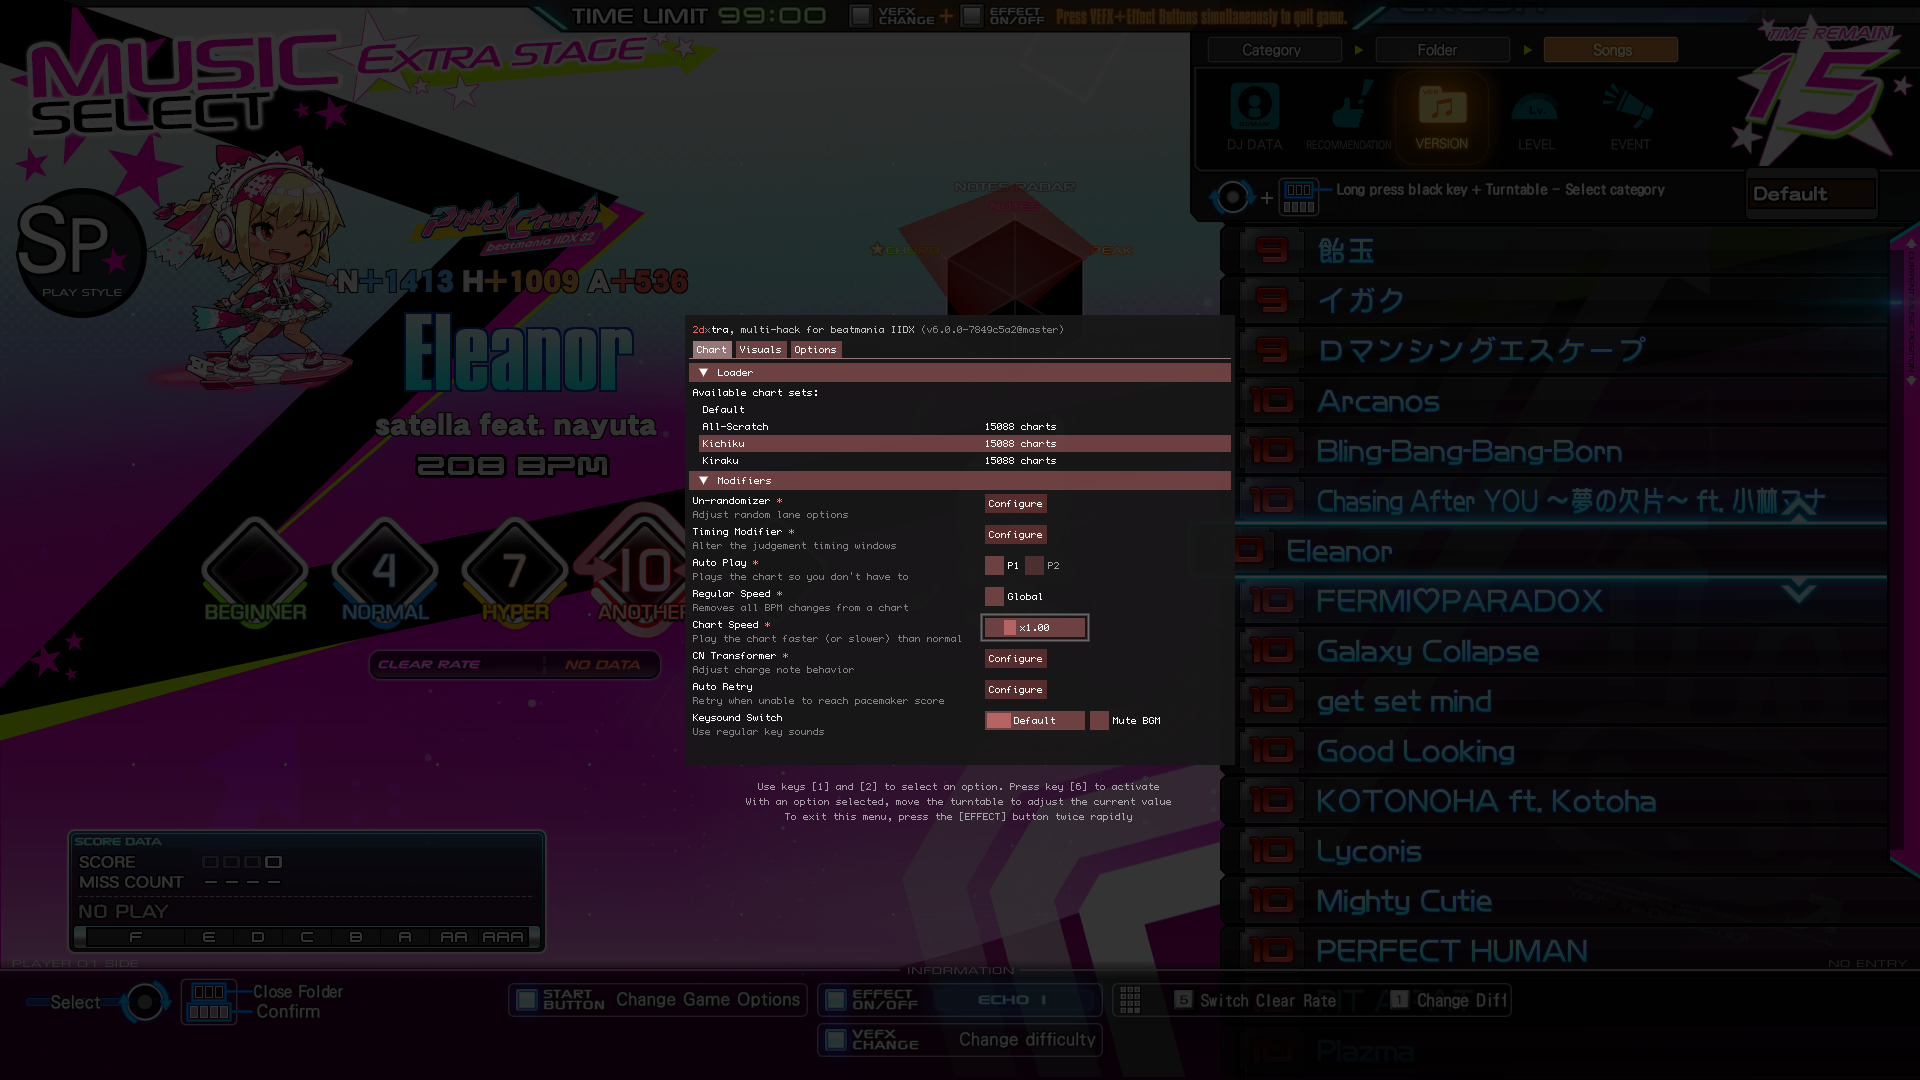
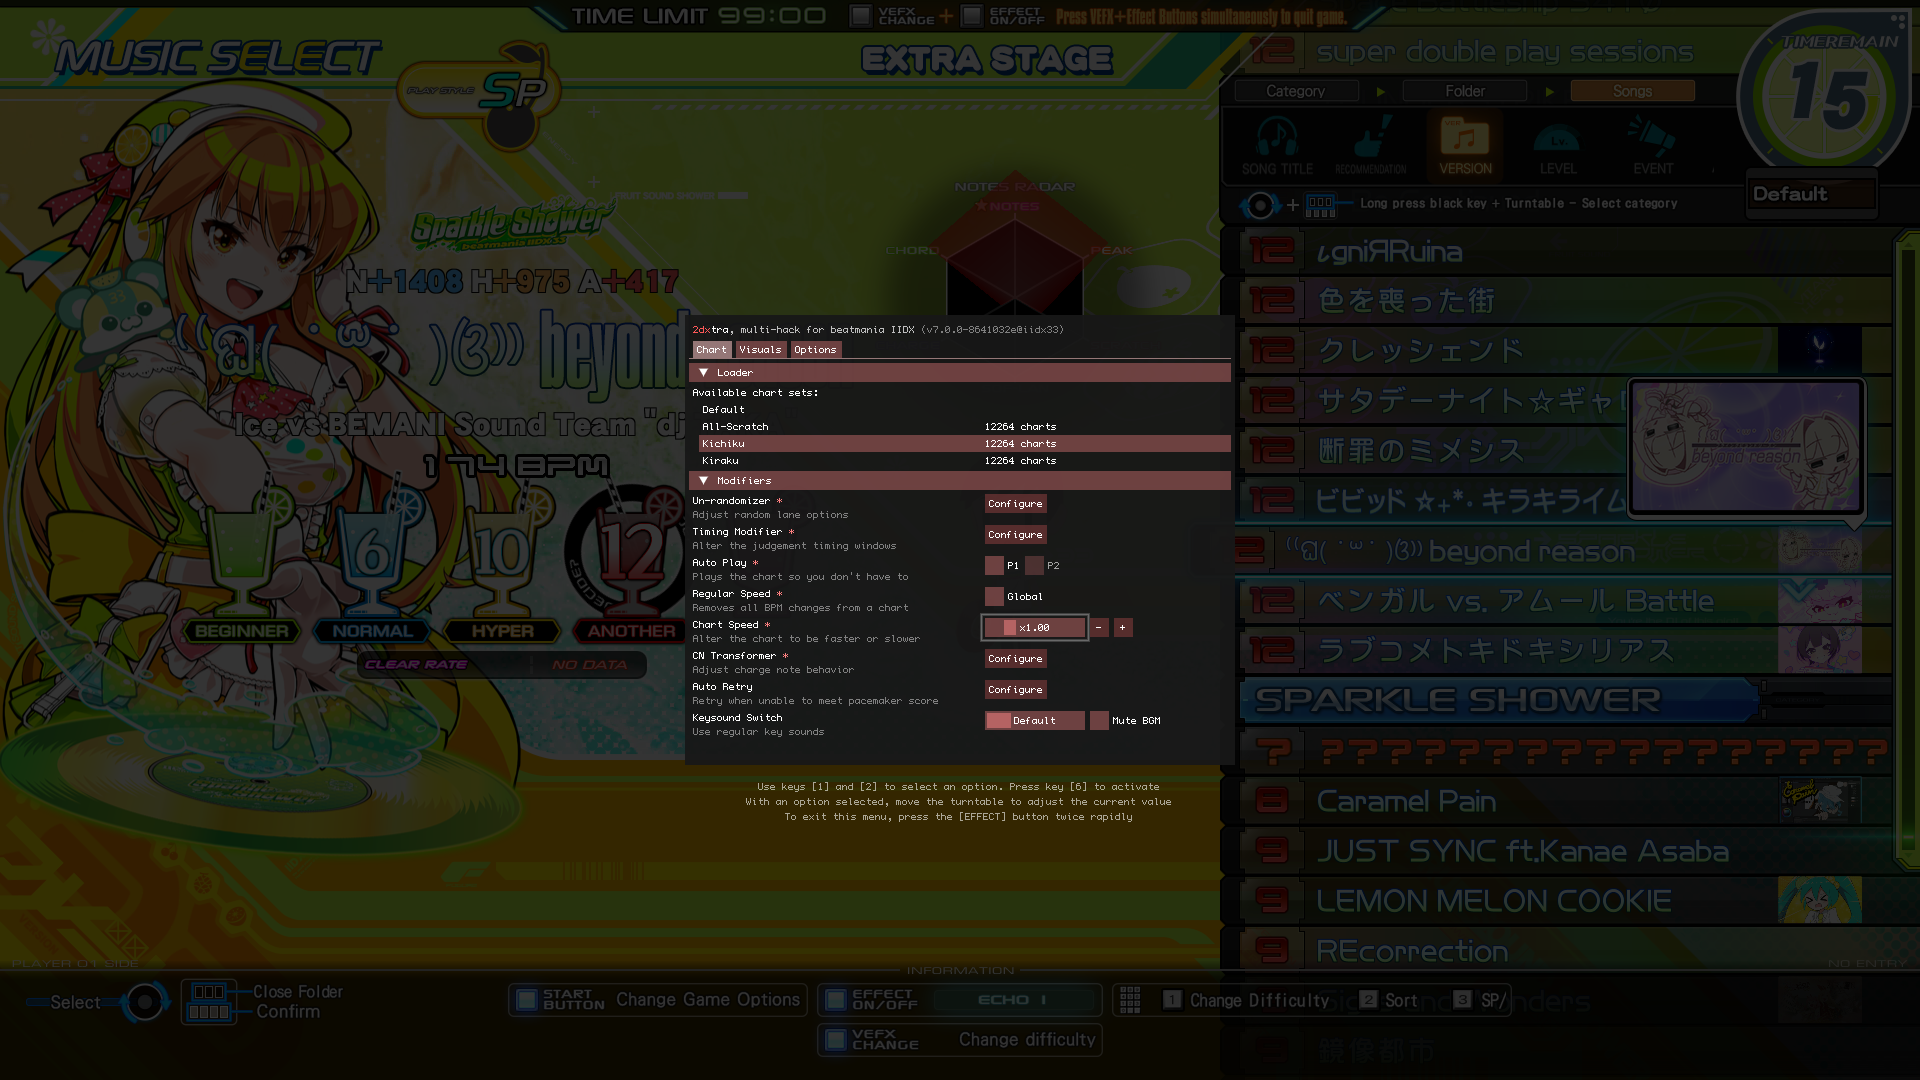
Add support for IIDX 33

diff --git a/src/2dxtra/offsets/2026081900-010.cc b/src/2dxtra/offsets/2026081900-010.cc
@@ -1,0 +1,92 @@
+versions.push_back({
+    .GAME_VERSION             = "2026081900-010",
+
+    .DLL_CODE_SIZE            = 0x0c8f800,
+    .DLL_ENTRYPOINT           = 0x0b1cccc,
+    .DLL_IMAGE_SIZE           = 0xbb95000,
+
+    .SOFT_REV_PATCH           = base + 0x094e6f9, // call replaced by `mov byte ptr [rdi+5], rev`
+    .INPUT_POLL_FN            = base + 0x0a7a2f0, // IO::InputManagerIIDX vftable slot 3
+    .ARENA_PHASE_PATCH        = base + 0x059e9e0, // callee of the arena phase clamp
+    .MUSIC_SELECT_CTOR        = base + 0x0603ee0, // builds the mlist_sel/thumbnail textures
+    .DAN_SELECT_CTOR          = base + 0x08cd420, // CDanSelectScene vftable slot 13 (scene enter)
+    .SCENE_DTOR               = base + 0x096a220, // prologue pattern [pattern]
+    .STAGE_RESULT_FN          = base + 0x092c2d0, // CStageResultScene vftable slot 13 (scene enter)
+    .RESET_STATE_FN           = base + 0x05abed0, // clears one player's game data block
+    .MSELECT_GENRE_C          = base + 0x0602d20, // renders the hovered entry's genre and title
+    .MSELECT_GENRE_B          = base + 0x0602db1, // cmp music_entry::texture_genre, 0 (7 bytes, patched to jmp)
+    .MSELECT_GENRE_A          = base + 0x0602e8d, // call to the wide genre text renderer
+    .MSELECT_GENRE_TEXT_FN    = base + 0x05ecf80, // callee of MSELECT_GENRE_A
+    .INIT_TEXT_RENDER_FN      = base + 0x05ebff0, // debug text renderer used for the boot progress line
+    .BOOT_MODEL_TEXT_CALL     = base + 0x093f46b, // call that draws the boot model string
+    .TITLE_MODEL_TEXT_CALL    = base + 0x09369dc, // call that draws the title-screen model string
+    .TEXT_INIT_FN             = base + 0x0344880, // initialises the text property block (first callee)
+    .TEXT_RENDER_FN           = base + 0x05ec370, // public wrapper around the ASCII text draw routine
+    .RESULT_ARTIST_FN         = base + 0x091c3e9, // call that draws the result artist text
+    .LOAD_CHART_FN_B          = base + 0x0827c60, // reads one .1 chart into the scratch buffer
+    .LOAD_CHART_FN_A          = base + 0x0827d80, // sole caller of LOAD_CHART_FN_B
+    .CHART_ANALYZE_FN         = base + 0x0826af0, // boot-time chart load + analyze pass
+    .CHART_ANALYZE_RESULT     = base + 0x0826d13, // instruction after the chart fread (rax = bytes read, rdi = buffer)
+    .CHART_CALC_RADAR_FN      = base + 0x0827610, // prologue pattern [pattern]
+    .GET_APP_CONFIG           = base + 0x093b9d0, // returns CApplicationConfig
+    .GET_MUSIC_DATA           = base + 0x0951fd0, // returns the music_data.bin blob
+    .LOAD_AUDIO_FN            = base + 0x0a8ffa0, // prologue pattern [pattern]
+    .GET_SOUND_ENTRY_FN       = base + 0x0a8fb40, // prologue pattern [pattern]
+    .XRPC_APPLY_FN            = base + 0x0ab9520, // the game's wrapper around avs2-ea3 xrpc_apply
+    .REG_DISPATCH_FN          = base + 0x09164e0, // builds and fires the music.reg request
+    .REG_PATCH_ADDR           = base + 0x09173d5, // call that actually queues the score save request
+    .SCORE_INVALID_FN         = base + 0x082e510, // shared by the result scene and the score save request
+    .DAN_SAVE_FN              = base + 0x05b4270, // prologue pattern [pattern]
+    .EAAPPLI_SAVE_FN          = base + 0x05b87a0, // prologue pattern [pattern]
+    .MDATA_LOAD_FN            = base + 0x0934260, // CMonitorCheckScene vftable slot 15 (runs after music_data is loaded)
+    .IS_BTN_DOWN_FN_A         = base + 0x081edad, // cmp autoplay flag inside the `button pressed` helper
+    .IS_BTN_DOWN_FN_B         = base + 0x081ee4d, // cmp autoplay flag inside the `button held` helper
+    .AUTO_BEAM_PATCH          = base + 0x0905ebb, // cmp autoplay flag in the lane beam renderer
+    .AUTO_BEAM_FN             = base + 0x0905c60, // lane beam renderer; rcx -> per-player block whose first dword is the player index
+    .CARD_OUT_VFUNC           = base + 0x0d77780, // CCardOutScene vftable slot 0
+    .RENDERER_PATCH           = base + 0x05c6ae2, // call nop'd to freeze rendering while the vtable is swapped
+    .APPLY_RANDOM_FN          = base + 0x08236e0, // prologue pattern [pattern]
+    .DARK_MODE_PATCH          = base + 0x0902658, // `je` over the play field draw, patched to an unconditional jmp
+    .MEASURE_PATCH            = base + 0x0823f29, // branch over the measure bar draw, forced unconditional
+    .BPM_BAR_PATCH            = base + 0x09019ca, // start of the bpm gradient draw, replaced by a jmp past it
+    .BPM_BAR_PATCH_JMP        =        0x00000ba, // relative jump to 0x901a89
+    .PLAY_FIELD_LOAD          = base + 0x081c5c0, // fills the play field note table
+    .RETRY_CHECK_A            = base + 0x090fd78, // call testing the EFFECT button
+    .RETRY_CHECK_B            = base + 0x090fd8a, // call testing the VEFX button
+    .GHOST_TARGET_FN          = base + 0x0906819, // call that renders the '+????' ghost text
+    .GRAPH_TARGET_FN          = base + 0x0a3cf15, // call that renders the 'TARGET:+????' text
+    .GRAPH_CONDITION          = base + 0x0a3cecd, // gate on whether the TARGET text is drawn
+    .FAIL_ANIMATION_FN        = base + 0x091058b, // call that starts the stage failed animation (dl = play it)
+    .FAIL_PLAY_SFX_FN         = base + 0x09105ba, // call that plays the stage failed sound effect (rcx = sound id)
+    .FAIL_DURATION_JMP        = base + 0x090ff30, // `jl` deciding whether the failed animation is still running
+    .WNDPROC_FN               = base + 0x093cea0, // PropClassWindowProc
+    .TIMING_HOOK_FN           = base + 0x0821730, // jump-table dispatcher that installs the judge windows
+    .ATTRACT_SELECT_FN        = base + 0x08a0ed0, // picks the next attract demo chart
+
+    .IS_SEPARATE_SCRATCH_FN   = base + 0x080a880, // whether separate FAST/SLOW for scratch option is enabled
+    .SPRITE_DRAW_FN           = base + 0x034ac50, // named sprite draw helper used for s_fast and s_slow
+    .JUDGE_APPLY_FN           = base + 0x08210b0, // applies a note judgment; prologue pattern [pattern]
+    .JUDGE_DISPLAY_FN         = base + 0x0909f80, // updates judge, combo and FAST/SLOW state; prologue pattern [pattern]
+    .JUDGE_DRAW_FS_KEYS_FN    = base + 0x0909750, // fast/slow renderer sharing the scratch renderer's caller
+    .JUDGE_DRAW_FS_SC_FN      = base + 0x0909a40, // renderer referencing s_fast and s_slow
+    .JUDGE_DISPLAY_INIT_FN    = base + 0x0909d10, // initializes judgment display state and judge_great_yellow sprites
+    .JUDGE_PRESS_RETURN       = base + 0x0821ce1, // return after general timing judgment call; continuation pattern [pattern]
+    .JUDGE_RELEASE_RETURN     = base + 0x0820c8a, // return after CN release timing judgment call; continuation pattern [pattern]
+
+    // offsets: data
+    .GAME_MODEL               = base + 0x1080d40, // the mutable copy of the ea3 model string
+    .GAME_STATE               = base + 0xacd79a0, // state block; p1_active/p2_active at +0x10/+0x14 pin it down
+    .INPUT_MANAGER            = base + 0xb29a2b0, // the InputManagerIIDX singleton (its vftable pointer is written here)
+    .PLAYER_BLOCK             = base + 0x3101488, // base of player 0's game data block
+    .SCORES_P1                = base + 0x312f01c, // player 0 score table (player block + the score updater's displacement)
+    .SCORES_P2                = base + 0x6c3f3bc, // player 1 score table
+    .RIVAL_SCORES_P1          = base + 0x38f73c0, // player 0 rival score table
+    .RIVAL_SCORES_P2          = base + 0x7407760, // player 1 rival score table
+    .MAX_ENTRIES              =        0x00084d0, // music entries per play style in the score tables
+    .D3D9_DEVICE              = base + 0xacd85e0, // IDirect3DDevice9* field assigned after CreateDeviceEx at 0x93c750 (manager +0xe0)
+    .AUTO_PLAY                = base + 0xaa9479c, // autoplay flag inside the play data block
+    .RANDOM_DATA              = base + 0xa7ef570, // object holding the post-random lane order
+    .PLAY_STATE               = base + 0xa7ed450, // per-play score/note counters and the pacemaker target
+    .PLAY_SESSION             = base + 0xaba9a30, // gameplay session block (pacemaker type, personal best, in-game flag)
+    .DEAD_STATE               = base + 0xaba95e0, // per-player alive flags from the failure handler's shared getter
+});

diff --git a/src/2dxtra/offsets/2026081900-012.cc b/src/2dxtra/offsets/2026081900-012.cc
@@ -1,0 +1,92 @@
+versions.push_back({
+    .GAME_VERSION           = "2026081900-012",
+
+    .DLL_CODE_SIZE          = 0x0bc0a00,
+    .DLL_ENTRYPOINT         = 0x0a4fd5c,
+    .DLL_IMAGE_SIZE         = 0xba81000,
+
+    .SOFT_REV_PATCH         = base + 0x08815d9, // call replaced by `mov byte ptr [rdi+5], rev`
+    .INPUT_POLL_FN          = base + 0x09ad3b0, // IO::InputManagerIIDX vftable slot 3
+    .ARENA_PHASE_PATCH      = base + 0x04d0fd0, // callee of the arena phase clamp
+    .MUSIC_SELECT_CTOR      = base + 0x05364d0, // builds the mlist_sel/thumbnail textures
+    .DAN_SELECT_CTOR        = base + 0x08001f0, // CDanSelectScene vftable slot 13 (scene enter)
+    .SCENE_DTOR             = base + 0x089d100, // prologue pattern [pattern]
+    .STAGE_RESULT_FN        = base + 0x085f0a0, // CStageResultScene vftable slot 13 (scene enter)
+    .RESET_STATE_FN         = base + 0x04de4c0, // clears one player's game data block
+    .MSELECT_GENRE_C        = base + 0x0535310, // renders the hovered entry's genre and title
+    .MSELECT_GENRE_B        = base + 0x05353a1, // cmp music_entry::texture_genre, 0 (7 bytes, patched to jmp)
+    .MSELECT_GENRE_A        = base + 0x053547d, // call to the wide genre text renderer
+    .MSELECT_GENRE_TEXT_FN  = base + 0x051f570, // callee of MSELECT_GENRE_A
+    .INIT_TEXT_RENDER_FN    = base + 0x051e5e0, // debug text renderer used for the boot progress line
+    .BOOT_MODEL_TEXT_CALL   = base + 0x087234b, // call that draws the boot model string
+    .TITLE_MODEL_TEXT_CALL  = base + 0x086989c, // call that draws the title-screen model string
+    .TEXT_INIT_FN           = base + 0x0344880, // initialises the text property block (first callee)
+    .TEXT_RENDER_FN         = base + 0x051e960, // public wrapper around the ASCII text draw routine
+    .RESULT_ARTIST_FN       = base + 0x084f1b9, // call that draws the result artist text
+    .LOAD_CHART_FN_B        = base + 0x075aa30, // reads one .1 chart into the scratch buffer
+    .LOAD_CHART_FN_A        = base + 0x075ab50, // sole caller of LOAD_CHART_FN_B
+    .CHART_ANALYZE_FN       = base + 0x07598c0, // boot-time chart load + analyze pass
+    .CHART_ANALYZE_RESULT   = base + 0x0759ae3, // instruction after the chart fread (rax = bytes read, rdi = buffer)
+    .CHART_CALC_RADAR_FN    = base + 0x075a3e0, // prologue pattern [pattern]
+    .GET_APP_CONFIG         = base + 0x086e890, // returns CApplicationConfig
+    .GET_MUSIC_DATA         = base + 0x0884eb0, // returns the music_data.bin blob
+    .LOAD_AUDIO_FN          = base + 0x09c2e30, // prologue pattern [pattern]
+    .GET_SOUND_ENTRY_FN     = base + 0x09c29d0, // prologue pattern [pattern]
+    .XRPC_APPLY_FN          = base + 0x09ec5b0, // the game's wrapper around avs2-ea3 xrpc_apply
+    .REG_DISPATCH_FN        = base + 0x08492b0, // builds and fires the music.reg request
+    .REG_PATCH_ADDR         = base + 0x084a1a5, // call that actually queues the score save request
+    .SCORE_INVALID_FN       = base + 0x07612e0, // shared by the result scene and the score save request
+    .DAN_SAVE_FN            = base + 0x04e6860, // prologue pattern [pattern]
+    .EAAPPLI_SAVE_FN        = base + 0x04ead90, // prologue pattern [pattern]
+    .MDATA_LOAD_FN          = base + 0x0867120, // CMonitorCheckScene vftable slot 15 (runs after music_data is loaded)
+    .IS_BTN_DOWN_FN_A       = base + 0x0751b8d, // cmp autoplay flag inside the `button pressed` helper
+    .IS_BTN_DOWN_FN_B       = base + 0x0751c2d, // cmp autoplay flag inside the `button held` helper
+    .AUTO_BEAM_PATCH        = base + 0x0838c8b, // cmp autoplay flag in the lane beam renderer
+    .AUTO_BEAM_FN           = base + 0x0838a30, // lane beam renderer; rcx -> per-player block whose first dword is the player index
+    .CARD_OUT_VFUNC         = base + 0x0ca8890, // CCardOutScene vftable slot 0
+    .RENDERER_PATCH         = base + 0x04f90d2, // call nop'd to freeze rendering while the vtable is swapped
+    .APPLY_RANDOM_FN        = base + 0x07564b0, // prologue pattern [pattern]
+    .DARK_MODE_PATCH        = base + 0x0835428, // `je` over the play field draw, patched to an unconditional jmp
+    .MEASURE_PATCH          = base + 0x0756cf9, // branch over the measure bar draw, forced unconditional
+    .BPM_BAR_PATCH          = base + 0x083479a, // start of the bpm gradient draw, replaced by a jmp past it
+    .BPM_BAR_PATCH_JMP      =        0x00000ba, // relative jump to 0x834859
+    .PLAY_FIELD_LOAD        = base + 0x074f3b0, // fills the play field note table
+    .RETRY_CHECK_A          = base + 0x0842b48, // call testing the EFFECT button
+    .RETRY_CHECK_B          = base + 0x0842b5a, // call testing the VEFX button
+    .GHOST_TARGET_FN        = base + 0x08395e9, // call that renders the '+????' ghost text
+    .GRAPH_TARGET_FN        = base + 0x096fff5, // call that renders the 'TARGET:+????' text
+    .GRAPH_CONDITION        = base + 0x096ffad, // gate on whether the TARGET text is drawn
+    .FAIL_ANIMATION_FN      = base + 0x084335b, // call that starts the stage failed animation (dl = play it)
+    .FAIL_PLAY_SFX_FN       = base + 0x084338a, // call that plays the stage failed sound effect (rcx = sound id)
+    .FAIL_DURATION_JMP      = base + 0x0842d00, // `jl` deciding whether the failed animation is still running
+    .WNDPROC_FN             = base + 0x086fd80, // PropClassWindowProc
+    .TIMING_HOOK_FN         = base + 0x0754500, // jump-table dispatcher that installs the judge windows
+    .ATTRACT_SELECT_FN      = base + 0x07d3ca0, // picks the next attract demo chart
+
+    .IS_SEPARATE_SCRATCH_FN = base + 0x073d670, // whether separate FAST/SLOW for scratch option is enabled
+    .SPRITE_DRAW_FN         = base + 0x034ac50, // named sprite draw helper used for s_fast and s_slow
+    .JUDGE_APPLY_FN         = base + 0x0753e80, // applies a note judgment; prologue pattern [pattern]
+    .JUDGE_DISPLAY_FN       = base + 0x083cd50, // updates judge, combo and FAST/SLOW state; prologue pattern [pattern]
+    .JUDGE_DRAW_FS_KEYS_FN  = base + 0x083c520, // fast/slow renderer sharing the scratch renderer's caller
+    .JUDGE_DRAW_FS_SC_FN    = base + 0x083c810, // renderer referencing s_fast and s_slow
+    .JUDGE_DISPLAY_INIT_FN  = base + 0x083cae0, // initializes judgment display state and judge_great_yellow sprites
+    .JUDGE_PRESS_RETURN     = base + 0x0754ab1, // return after general timing judgment call; continuation pattern [pattern]
+    .JUDGE_RELEASE_RETURN   = base + 0x0753a5a, // return after CN release timing judgment call; continuation pattern [pattern]
+
+    // offsets: data
+    .GAME_MODEL             = base + 0x0f81d40, // the mutable copy of the ea3 model string
+    .GAME_STATE             = base + 0xabd7960, // state block; p1_active/p2_active at +0x10/+0x14 pin it down
+    .INPUT_MANAGER          = base + 0xb19a270, // the InputManagerIIDX singleton (its vftable pointer is written here)
+    .PLAYER_BLOCK           = base + 0x3001488, // base of player 0's game data block
+    .SCORES_P1              = base + 0x302f01c, // player 0 score table (player block + the score updater's displacement)
+    .SCORES_P2              = base + 0x6b3f3bc, // player 1 score table
+    .RIVAL_SCORES_P1        = base + 0x37f73c0, // player 0 rival score table
+    .RIVAL_SCORES_P2        = base + 0x7307760, // player 1 rival score table
+    .MAX_ENTRIES            =        0x00084d0, // music entries per play style in the score tables
+    .D3D9_DEVICE            = base + 0xabd85a0, // IDirect3DDevice9* field assigned after CreateDeviceEx at 0x86f630 (manager +0xe0)
+    .AUTO_PLAY              = base + 0xa99475c, // autoplay flag inside the play data block
+    .RANDOM_DATA            = base + 0xa6ef530, // object holding the post-random lane order
+    .PLAY_STATE             = base + 0xa6ed450, // per-play score/note counters and the pacemaker target
+    .PLAY_SESSION           = base + 0xaaa99f0, // gameplay session block (pacemaker type, personal best, in-game flag)
+    .DEAD_STATE             = base + 0xaaa95a0, // per-player alive flags from the failure handler's shared getter
+});

diff --git a/src/2dxtra/game.h b/src/2dxtra/game.h
@@ -323,26 +323,30 @@ namespace bm2dx
 		std::uint8_t pad_0004[8]; //0x0004
 		std::int32_t note_current; //0x000C
 		std::int32_t note_total; //0x0010
-		std::uint8_t pad_0014[852]; //0x0014
-	}; static_assert(sizeof(play_counters_t) == 0x368);
+		std::uint8_t pad_0014[860]; //0x0014
+	}; static_assert(sizeof(play_counters_t) == 0x370);
 
 	struct play_state_t
 	{
 		std::uint8_t pad_0000[16]; //0x0000
 		play_counters_t players[2]; //0x0010
-		std::uint8_t pad_06E0[876]; //0x06E0
-		std::uint32_t pacemaker_target; //0x0A4C
-	}; static_assert(sizeof(play_state_t) == 0xA50);
+		std::uint8_t pad_06F0[888]; //0x06F0
+		std::uint32_t pacemaker_target; //0x0A68
+	}; static_assert(sizeof(play_state_t) == 0xA6C);
+	static_assert(offsetof(play_state_t, players) == 0x10);
+	static_assert(offsetof(play_state_t, pacemaker_target) == 0xA68);
 
 	struct play_session_t
 	{
 		std::uint8_t pad_0000[0x54]; //0x0000
 		bool in_gameplay; //0x0054
-		std::uint8_t pad_0055[0x30F]; //0x0055
-		std::uint32_t current_score_pb; //0x0364
-		std::uint8_t pad_0368[0x28]; //0x0368
-		pacemaker_type pacemaker_type_id; //0x0390
-	}; static_assert(offsetof(play_session_t, pacemaker_type_id) == 0x390);
+		std::uint8_t pad_0055[0x3BF]; //0x0055
+		std::uint32_t current_score_pb; //0x0414
+		std::uint8_t pad_0418[0x28]; //0x0418
+		pacemaker_type pacemaker_type_id; //0x0440
+	}; static_assert(offsetof(play_session_t, pacemaker_type_id) == 0x440);
+	static_assert(offsetof(play_session_t, in_gameplay) == 0x54);
+	static_assert(offsetof(play_session_t, current_score_pb) == 0x414);
 
 	struct game_score_t
 	{
